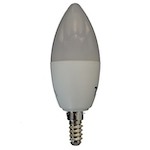
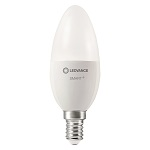
New B40 E14 and PAR16 50 lamps (#1553)
* New B40 E14 and PAR16 50 lamps

New dimmable products added

* Update AC25704.jpg

Updated the image of the E14 lamp

* Update 4058075181472.jpg

* Description adapted

* Added new P40 E14 dim lamp

Changed region(s): [[0.32, 0.0, 0.6933, 0.9867]]

diff --git a/docs/devices/4058075729148.md b/docs/devices/4058075729148.md
@@ -1,0 +1,106 @@
+---
+title: "LEDVANCE 4058075729148 control via MQTT"
+description: "Integrate your LEDVANCE 4058075729148 via Zigbee2MQTT with whatever smart home infrastructure you are using without the vendor's bridge or gateway."
+addedAt: 2022-09-06T11:31:00Z
+pageClass: device-page
+---
+
+<!-- !!!! -->
+<!-- ATTENTION: This file is auto-generated through docgen! -->
+<!-- You can only edit the "Notes"-Section between the two comment lines "Notes BEGIN" and "Notes END". -->
+<!-- Do not use h1 or h2 heading within "## Notes"-Section. -->
+<!-- !!!! -->
+
+# LEDVANCE 4058075729148
+
+|     |     |
+|-----|-----|
+| Model | 4058075729148  |
+| Vendor  | LEDVANCE  |
+| Description | SMART+ Spot PAR16 50 GU10 dimmable white |
+| Exposes | light (state, brightness), effect, linkquality |
+| Picture | ![LEDVANCE 4058075729148](https://www.zigbee2mqtt.io/images/devices/4058075729148.jpg) |
+
+
+<!-- Notes BEGIN: You can edit here. Add "## Notes" headline if not already present. -->
+## Notes
+
+
+### Set default power on/off transition
+Various LEDVANCE Products support setting a default transition when turning a light on and off.
+
+**TOPIC**: `zigbee2mqtt/FRIENDLY_NAME/set`
+```js
+{
+    "set_transition": 1
+}
+```
+**INFO**: Value is time in seconds (integer, float values are not supported)
+
+### Remember current light state
+Various Osram/Sylvania LED support remembering their current state in case of power loss, or if a light
+is manually switched off then on. Lights will remember their respective attributes
+(i.e. brightness, color, saturation, etc.).
+**NOTE**: This must be executed every time you make changes to a light's attributes for it to then 'remember' it.
+
+**TOPIC**: `zigbee2mqtt/FRIENDLY_NAME/set`
+```js
+{
+    "remember_state": true
+}
+```
+**INFO**: Value is true, false (boolean)
+<!-- Notes END: Do not edit below this line -->
+
+## OTA updates
+This device supports OTA updates, for more information see [OTA updates](../guide/usage/ota_updates.md).
+
+
+## Options
+*[How to use device type specific configuration](../guide/configuration/devices-groups.md#specific-device-options)*
+
+* `transition`: Controls the transition time (in seconds) of on/off, brightness, color temperature (if applicable) and color (if applicable) changes. Defaults to `0` (no transition). The value must be a number with a minimum value of `0`
+
+
+## Exposes
+
+### Light 
+This light supports the following features: `state`, `brightness`.
+- `state`: To control the state publish a message to topic `zigbee2mqtt/FRIENDLY_NAME/set` with payload `{"state": "ON"}`, `{"state": "OFF"}` or `{"state": "TOGGLE"}`. To read the state send a message to `zigbee2mqtt/FRIENDLY_NAME/get` with payload `{"state": ""}`.
+- `brightness`: To control the brightness publish a message to topic `zigbee2mqtt/FRIENDLY_NAME/set` with payload `{"brightness": VALUE}` where `VALUE` is a number between `0` and `254`. To read the brightness send a message to `zigbee2mqtt/FRIENDLY_NAME/get` with payload `{"brightness": ""}`.
+
+#### Transition
+For all of the above mentioned features it is possible to do a transition of the value over time. To do this add an additional property `transition` to the payload which is the transition time in seconds.
+Examples: `{"brightness":156,"transition":3}`, `{"color_temp":241,"transition":1}`.
+
+#### Moving/stepping
+Instead of setting a value (e.g. brightness) directly it is also possible to:
+- move: this will automatically move the value over time, to stop send value `stop` or `0`.
+- step: this will increment/decrement the current value by the given one.
+
+The direction of move and step can be either up or down, provide a negative value to move/step down, a positive value to move/step up.
+To do this send a payload like below to `zigbee2mqtt/FRIENDLY_NAME/set`
+
+**NOTE**: brightness move/step will stop at the minimum brightness and won't turn on the light when it's off. In this case use `brightness_move_onoff`/`brightness_step_onoff`
+````js
+{
+  "brightness_move": -40, // Starts moving brightness down at 40 units per second
+  "brightness_move": 0, // Stop moving brightness
+  "brightness_step": 40 // Increases brightness by 40
+}
+````
+
+### Effect (enum)
+Triggers an effect on the light (e.g. make light blink for a few seconds).
+Value will **not** be published in the state.
+It's not possible to read (`/get`) this value.
+To write (`/set`) a value publish a message to topic `zigbee2mqtt/FRIENDLY_NAME/set` with payload `{"effect": NEW_VALUE}`.
+The possible values are: `blink`, `breathe`, `okay`, `channel_change`, `finish_effect`, `stop_effect`.
+
+### Linkquality (numeric)
+Link quality (signal strength).
+Value can be found in the published state on the `linkquality` property.
+It's not possible to read (`/get`) or write (`/set`) this value.
+The minimal value is `0` and the maximum value is `255`.
+The unit of this value is `lqi`.
+

diff --git a/docs/devices/4058075729063.md b/docs/devices/4058075729063.md
@@ -1,0 +1,106 @@
+---
+title: "LEDVANCE 4058075729063 control via MQTT"
+description: "Integrate your LEDVANCE 4058075729063 via Zigbee2MQTT with whatever smart home infrastructure you are using without the vendor's bridge or gateway."
+addedAt: 2022-09-06T11:31:00Z
+pageClass: device-page
+---
+
+<!-- !!!! -->
+<!-- ATTENTION: This file is auto-generated through docgen! -->
+<!-- You can only edit the "Notes"-Section between the two comment lines "Notes BEGIN" and "Notes END". -->
+<!-- Do not use h1 or h2 heading within "## Notes"-Section. -->
+<!-- !!!! -->
+
+# LEDVANCE 4058075729063
+
+|     |     |
+|-----|-----|
+| Model | 4058075729063  |
+| Vendor  | LEDVANCE  |
+| Description | SMART+ Classic B40 E14 dimmable white|
+| Exposes | light (state, brightness), effect, linkquality |
+| Picture | ![LEDVANCE 4058075729063](https://www.zigbee2mqtt.io/images/devices/4058075729063.jpg) |
+
+
+<!-- Notes BEGIN: You can edit here. Add "## Notes" headline if not already present. -->
+## Notes
+
+
+### Set default power on/off transition
+Various LEDVANCE Products support setting a default transition when turning a light on and off.
+
+**TOPIC**: `zigbee2mqtt/FRIENDLY_NAME/set`
+```js
+{
+    "set_transition": 1
+}
+```
+**INFO**: Value is time in seconds (integer, float values are not supported)
+
+### Remember current light state
+Various Osram/Sylvania LED support remembering their current state in case of power loss, or if a light
+is manually switched off then on. Lights will remember their respective attributes
+(i.e. brightness, color, saturation, etc.).
+**NOTE**: This must be executed every time you make changes to a light's attributes for it to then 'remember' it.
+
+**TOPIC**: `zigbee2mqtt/FRIENDLY_NAME/set`
+```js
+{
+    "remember_state": true
+}
+```
+**INFO**: Value is true, false (boolean)
+<!-- Notes END: Do not edit below this line -->
+
+## OTA updates
+This device supports OTA updates, for more information see [OTA updates](../guide/usage/ota_updates.md).
+
+
+## Options
+*[How to use device type specific configuration](../guide/configuration/devices-groups.md#specific-device-options)*
+
+* `transition`: Controls the transition time (in seconds) of on/off, brightness, color temperature (if applicable) and color (if applicable) changes. Defaults to `0` (no transition). The value must be a number with a minimum value of `0`
+
+
+## Exposes
+
+### Light 
+This light supports the following features: `state`, `brightness`.
+- `state`: To control the state publish a message to topic `zigbee2mqtt/FRIENDLY_NAME/set` with payload `{"state": "ON"}`, `{"state": "OFF"}` or `{"state": "TOGGLE"}`. To read the state send a message to `zigbee2mqtt/FRIENDLY_NAME/get` with payload `{"state": ""}`.
+- `brightness`: To control the brightness publish a message to topic `zigbee2mqtt/FRIENDLY_NAME/set` with payload `{"brightness": VALUE}` where `VALUE` is a number between `0` and `254`. To read the brightness send a message to `zigbee2mqtt/FRIENDLY_NAME/get` with payload `{"brightness": ""}`.
+
+#### Transition
+For all of the above mentioned features it is possible to do a transition of the value over time. To do this add an additional property `transition` to the payload which is the transition time in seconds.
+Examples: `{"brightness":156,"transition":3}`, `{"color_temp":241,"transition":1}`.
+
+#### Moving/stepping
+Instead of setting a value (e.g. brightness) directly it is also possible to:
+- move: this will automatically move the value over time, to stop send value `stop` or `0`.
+- step: this will increment/decrement the current value by the given one.
+
+The direction of move and step can be either up or down, provide a negative value to move/step down, a positive value to move/step up.
+To do this send a payload like below to `zigbee2mqtt/FRIENDLY_NAME/set`
+
+**NOTE**: brightness move/step will stop at the minimum brightness and won't turn on the light when it's off. In this case use `brightness_move_onoff`/`brightness_step_onoff`
+````js
+{
+  "brightness_move": -40, // Starts moving brightness down at 40 units per second
+  "brightness_move": 0, // Stop moving brightness
+  "brightness_step": 40 // Increases brightness by 40
+}
+````
+
+### Effect (enum)
+Triggers an effect on the light (e.g. make light blink for a few seconds).
+Value will **not** be published in the state.
+It's not possible to read (`/get`) this value.
+To write (`/set`) a value publish a message to topic `zigbee2mqtt/FRIENDLY_NAME/set` with payload `{"effect": NEW_VALUE}`.
+The possible values are: `blink`, `breathe`, `okay`, `channel_change`, `finish_effect`, `stop_effect`.
+
+### Linkquality (numeric)
+Link quality (signal strength).
+Value can be found in the published state on the `linkquality` property.
+It's not possible to read (`/get`) or write (`/set`) this value.
+The minimal value is `0` and the maximum value is `255`.
+The unit of this value is `lqi`.
+

diff --git a/docs/devices/4058075729100.md b/docs/devices/4058075729100.md
@@ -1,0 +1,106 @@
+---
+title: "LEDVANCE 4058075729100 control via MQTT"
+description: "Integrate your LEDVANCE 4058075729100 via Zigbee2MQTT with whatever smart home infrastructure you are using without the vendor's bridge or gateway."
+addedAt: 2022-09-06T11:31:00Z
+pageClass: device-page
+---
+
+<!-- !!!! -->
+<!-- ATTENTION: This file is auto-generated through docgen! -->
+<!-- You can only edit the "Notes"-Section between the two comment lines "Notes BEGIN" and "Notes END". -->
+<!-- Do not use h1 or h2 heading within "## Notes"-Section. -->
+<!-- !!!! -->
+
+# LEDVANCE 4058075729100
+
+|     |     |
+|-----|-----|
+| Model | 4058075729100  |
+| Vendor  | LEDVANCE  |
+| Description | SMART+ Classic P40 E14 dimmable white|
+| Exposes | light (state, brightness), effect, linkquality |
+| Picture | ![LEDVANCE 4058075729100](https://www.zigbee2mqtt.io/images/devices/4058075729100.jpg) |
+
+
+<!-- Notes BEGIN: You can edit here. Add "## Notes" headline if not already present. -->
+## Notes
+
+
+### Set default power on/off transition
+Various LEDVANCE Products support setting a default transition when turning a light on and off.
+
+**TOPIC**: `zigbee2mqtt/FRIENDLY_NAME/set`
+```js
+{
+    "set_transition": 1
+}
+```
+**INFO**: Value is time in seconds (integer, float values are not supported)
+
+### Remember current light state
+Various Osram/Sylvania LED support remembering their current state in case of power loss, or if a light
+is manually switched off then on. Lights will remember their respective attributes
+(i.e. brightness, color, saturation, etc.).
+**NOTE**: This must be executed every time you make changes to a light's attributes for it to then 'remember' it.
+
+**TOPIC**: `zigbee2mqtt/FRIENDLY_NAME/set`
+```js
+{
+    "remember_state": true
+}
+```
+**INFO**: Value is true, false (boolean)
+<!-- Notes END: Do not edit below this line -->
+
+## OTA updates
+This device supports OTA updates, for more information see [OTA updates](../guide/usage/ota_updates.md).
+
+
+## Options
+*[How to use device type specific configuration](../guide/configuration/devices-groups.md#specific-device-options)*
+
+* `transition`: Controls the transition time (in seconds) of on/off, brightness, color temperature (if applicable) and color (if applicable) changes. Defaults to `0` (no transition). The value must be a number with a minimum value of `0`
+
+
+## Exposes
+
+### Light 
+This light supports the following features: `state`, `brightness`.
+- `state`: To control the state publish a message to topic `zigbee2mqtt/FRIENDLY_NAME/set` with payload `{"state": "ON"}`, `{"state": "OFF"}` or `{"state": "TOGGLE"}`. To read the state send a message to `zigbee2mqtt/FRIENDLY_NAME/get` with payload `{"state": ""}`.
+- `brightness`: To control the brightness publish a message to topic `zigbee2mqtt/FRIENDLY_NAME/set` with payload `{"brightness": VALUE}` where `VALUE` is a number between `0` and `254`. To read the brightness send a message to `zigbee2mqtt/FRIENDLY_NAME/get` with payload `{"brightness": ""}`.
+
+#### Transition
+For all of the above mentioned features it is possible to do a transition of the value over time. To do this add an additional property `transition` to the payload which is the transition time in seconds.
+Examples: `{"brightness":156,"transition":3}`, `{"color_temp":241,"transition":1}`.
+
+#### Moving/stepping
+Instead of setting a value (e.g. brightness) directly it is also possible to:
+- move: this will automatically move the value over time, to stop send value `stop` or `0`.
+- step: this will increment/decrement the current value by the given one.
+
+The direction of move and step can be either up or down, provide a negative value to move/step down, a positive value to move/step up.
+To do this send a payload like below to `zigbee2mqtt/FRIENDLY_NAME/set`
+
+**NOTE**: brightness move/step will stop at the minimum brightness and won't turn on the light when it's off. In this case use `brightness_move_onoff`/`brightness_step_onoff`
+````js
+{
+  "brightness_move": -40, // Starts moving brightness down at 40 units per second
+  "brightness_move": 0, // Stop moving brightness
+  "brightness_step": 40 // Increases brightness by 40
+}
+````
+
+### Effect (enum)
+Triggers an effect on the light (e.g. make light blink for a few seconds).
+Value will **not** be published in the state.
+It's not possible to read (`/get`) this value.
+To write (`/set`) a value publish a message to topic `zigbee2mqtt/FRIENDLY_NAME/set` with payload `{"effect": NEW_VALUE}`.
+The possible values are: `blink`, `breathe`, `okay`, `channel_change`, `finish_effect`, `stop_effect`.
+
+### Linkquality (numeric)
+Link quality (signal strength).
+Value can be found in the published state on the `linkquality` property.
+It's not possible to read (`/get`) or write (`/set`) this value.
+The minimal value is `0` and the maximum value is `255`.
+The unit of this value is `lqi`.
+

diff --git a/docs/devices/4058075728981.md b/docs/devices/4058075728981.md
@@ -27,7 +27,7 @@ pageClass: device-page
 
 
 ### Set default power on/off transition
-Various Osram/Sylvania LED support setting a default transition when turning a light on and off.
+Various LEDVANCE Products support setting a default transition when turning a light on and off.
 
 **TOPIC**: `zigbee2mqtt/FRIENDLY_NAME/set`
 ```js
